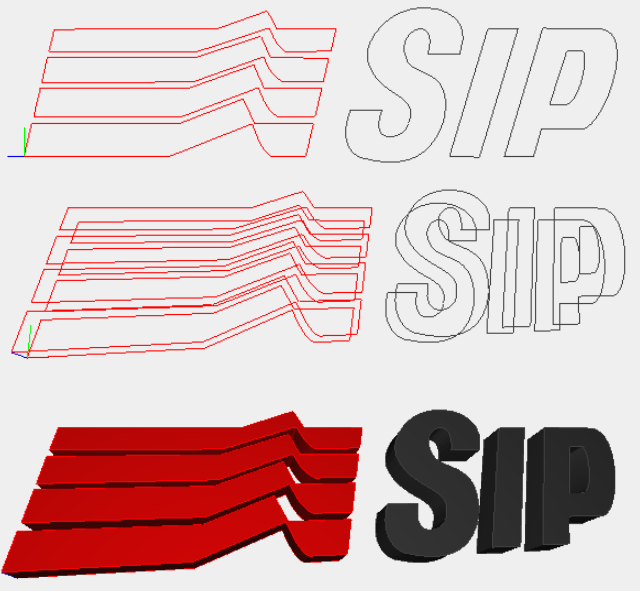
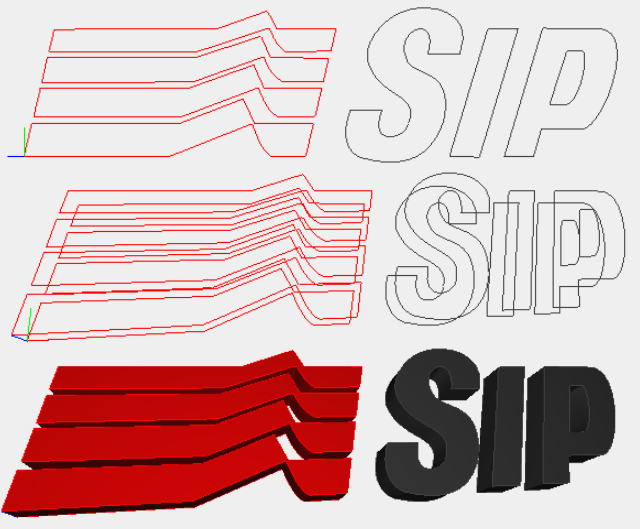
Fine

diff --git a/Sirio.html b/Sirio.html
@@ -52,11 +52,80 @@
 <img src="./images/Sirio6.png" style="float: center"> 
 
 <h3>The Numbers</h3>
+<p>For the modeling of some numbers was used Bezier function (such as the number 8):</p>
+<center><img src="./images/Sirio7.png" style="float: center"> </center>
+<p>For the asterisk key has been used the function 'REPLICA' in conjunction with the function 'ROTATE' getting the result below:</p>
+<center><img src="./images/Sirio8.png" style="float: center"> </center>
 
+<div id="main-content">
+        <pre><code> /* Crea il tasto asterico */
+var asterisco = function(h) {
+
+  var line1 = TRANSLATE([0,2])([-1.114/2,h+0.01])(linea(0.195,1.114));
+  var aste = COLOR(grigio10)(STRUCT(REPLICA(3)([line1,ROTATE([0,1])(2*PI/3)])));
+
+  var tot = STRUCT([aste]);
+  return tot;
+}</code></pre>
+</div>
 <h3>The Keyboard</h3>
+<center><img src="./images/Sirio10.png" style="float: center"> </center>
+<p>The keyboard has been created through the 'console' that takes three inputs:<BR>
 
+    - h - height of the buttons,<BR>
+    - a - latitudinal distance between the buttons,<BR>
+    - b - longitudinal distance between the buttons.</p>
+<div id="main-content">
+        <pre><code> var console = function(h,a,b) {
+  var un = TRANSLATE([0,1])([-h-a,h/2+b/2+h+b])(ROTATE([0,1])(-PI/2)(uno(h)));
+  var du = TRANSLATE([1])([h/2+b/2+h+b])(due(h));
+  var tr = TRANSLATE([0,1])([h+a,h/2+b/2+h+b])(tre(h));
+  var quatt = TRANSLATE([0,1])([-h-a,h/2+b/2])(quattro(h));
+  var cin = TRANSLATE([1])([h/2+b/2])(cinque(h));
+  var se = TRANSLATE([0,1])([h+a,h/2+b/2])(sei(h));
+  var sett = TRANSLATE([0,1])([-h-a,-h/2-b/2])(sette(h));
+  var ott = TRANSLATE([1])([-h/2-b/2])(otto(h));
+  var nov = TRANSLATE([0,1])([h+a,-h/2-b/2])(nove(h));
+  var zer = TRANSLATE([1])([-h/2-b/2-h-b])(zero(h));
+  var ast = TRANSLATE([0,1])([-h-a,-h/2-b/2-h-b])(asterisco(h));
+  var canc = TRANSLATE([0,1])([h+a,-h/2-b/2-h-b])(cancelletto(h));
+
+  var tast_spec_rp = TRANSLATE([0,1])([h+a+8,-h/2-b/2])(rp(h));
+  var tast_spec_p =  TRANSLATE([0,1])([h+a+8,-h/2-b/2-h-b])(pii_but(h));
+  var logo = TRANSLATE([0,1,2])([-14,h/2+b/2+b+h/2,0.9])(SCALE([0,1])([0.25,0.25])(logo_sip(0.5)));
+  var tastiera = TRANSLATE([2])([-0.2])(STRUCT([cin,ott,du,zer,un,tr,quatt,se,sett,nov,ast,canc,tast_spec_rp,tast_spec_p]));
+  
+  var tot = STRUCT([tastiera])
+  return tot;
+}</code></pre>
+</div>
 <h3>The Chassis</h3>
+<img src="./images/Sirio15.png" style="float: center"> 
+<p>The Chassis has been obtained by the application of:</p>
+             <ul style="font-weight:bold;">
+        <li>1-Hermite for the profile curves constructed with Bezier;</li>
+        <li>2-Rods obtained by extruding circles;</li>
+        <li>3-Spheres, hemispheres or quarter-sphere;</li>
+        <li>3-CuboId.</li>
+      </ul>
+<div id="main-content">
+        <pre><code> var sphere = function(r) {
+  var domain = DOMAIN([[0, PI], [0, 2*PI]])([16,16]);
 
+  var mapping = function(v) {
+    var a = v[0];
+    var b = v[1];
+
+    var u = r*SIN(a)*COS(b);
+    var v = r*SIN(a)*SIN(b);
+    var w = r*COS(a);
+
+    return [u,v,w];
+  }
+  return MAP(mapping)(domain)
+}</code></pre>
+</div>
+<img src="./images/Sirio11.png" style="float: center"> 
 <h3>The Handset</h3>
 <p>The handset has been obtained by the application of Hermite for the profile curves constructed with Bezier.</p>
 <img src="./images/Sirio5.png" style="float: center"> 
